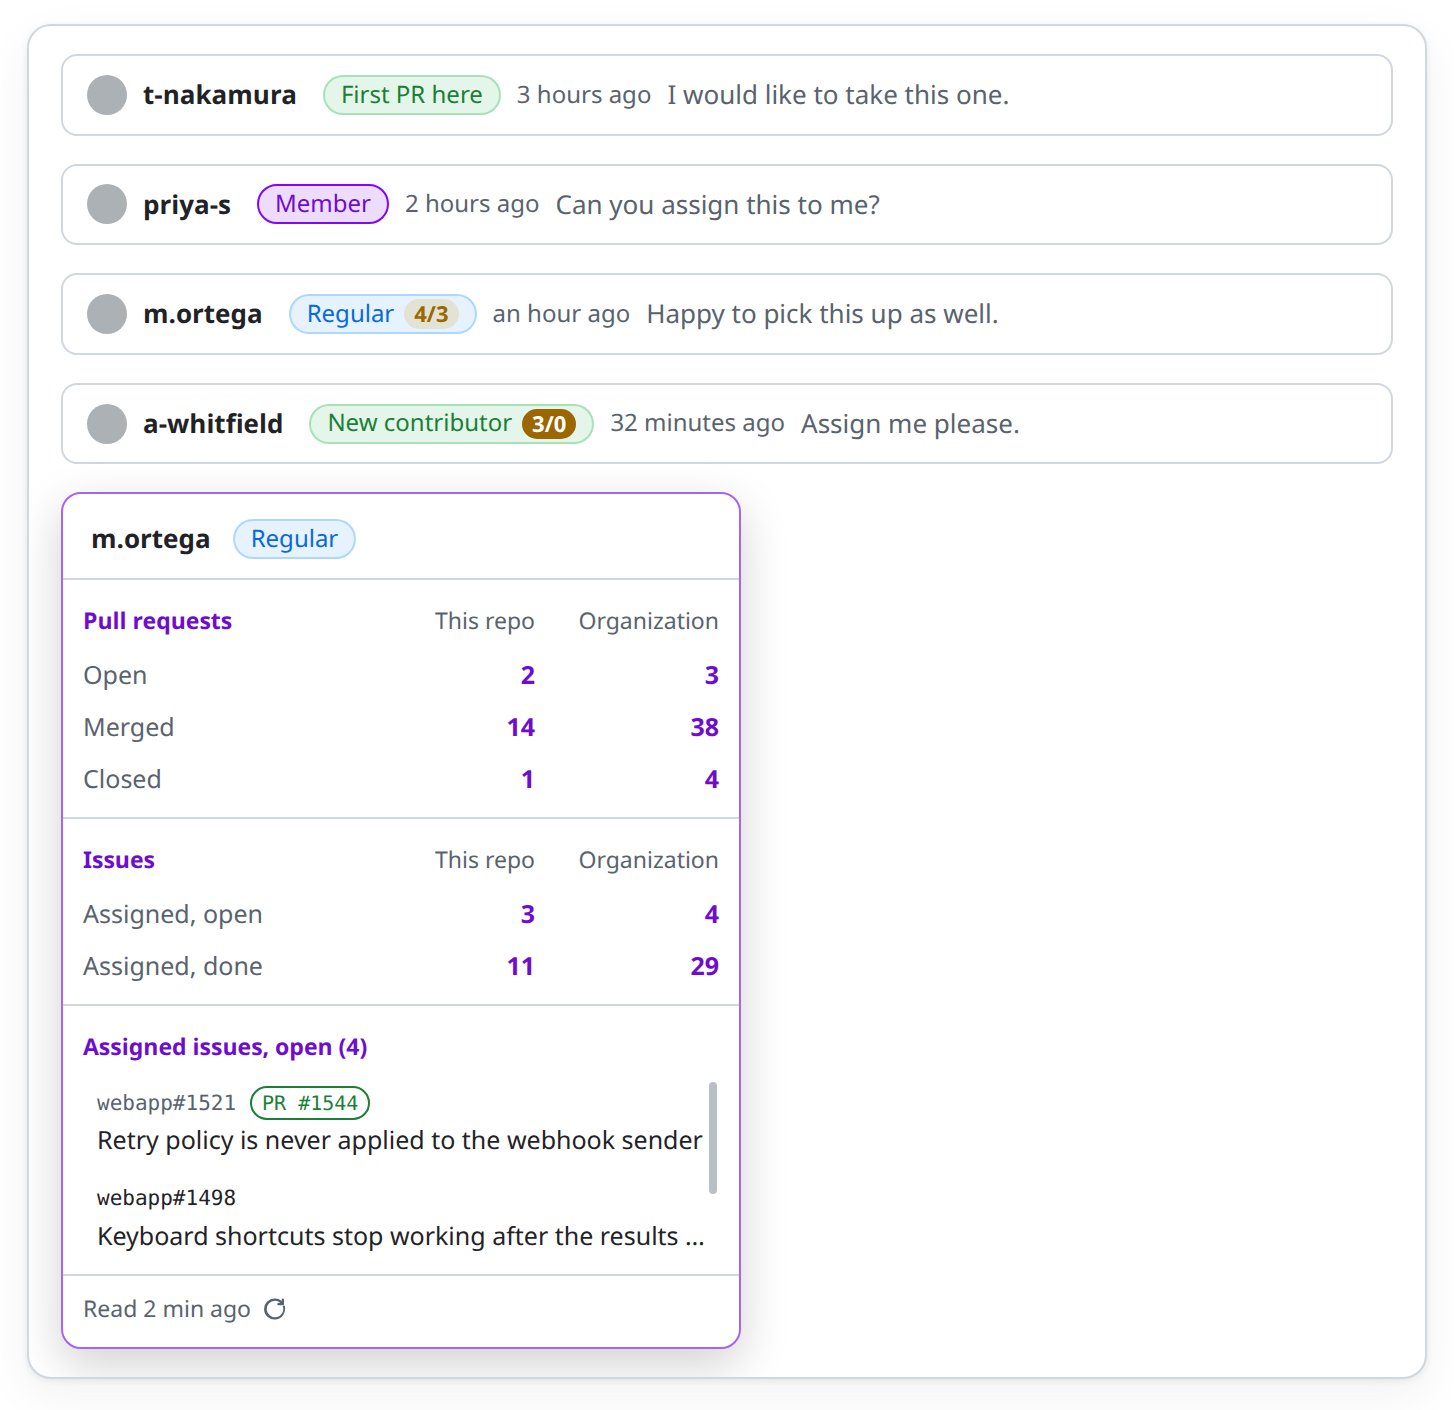
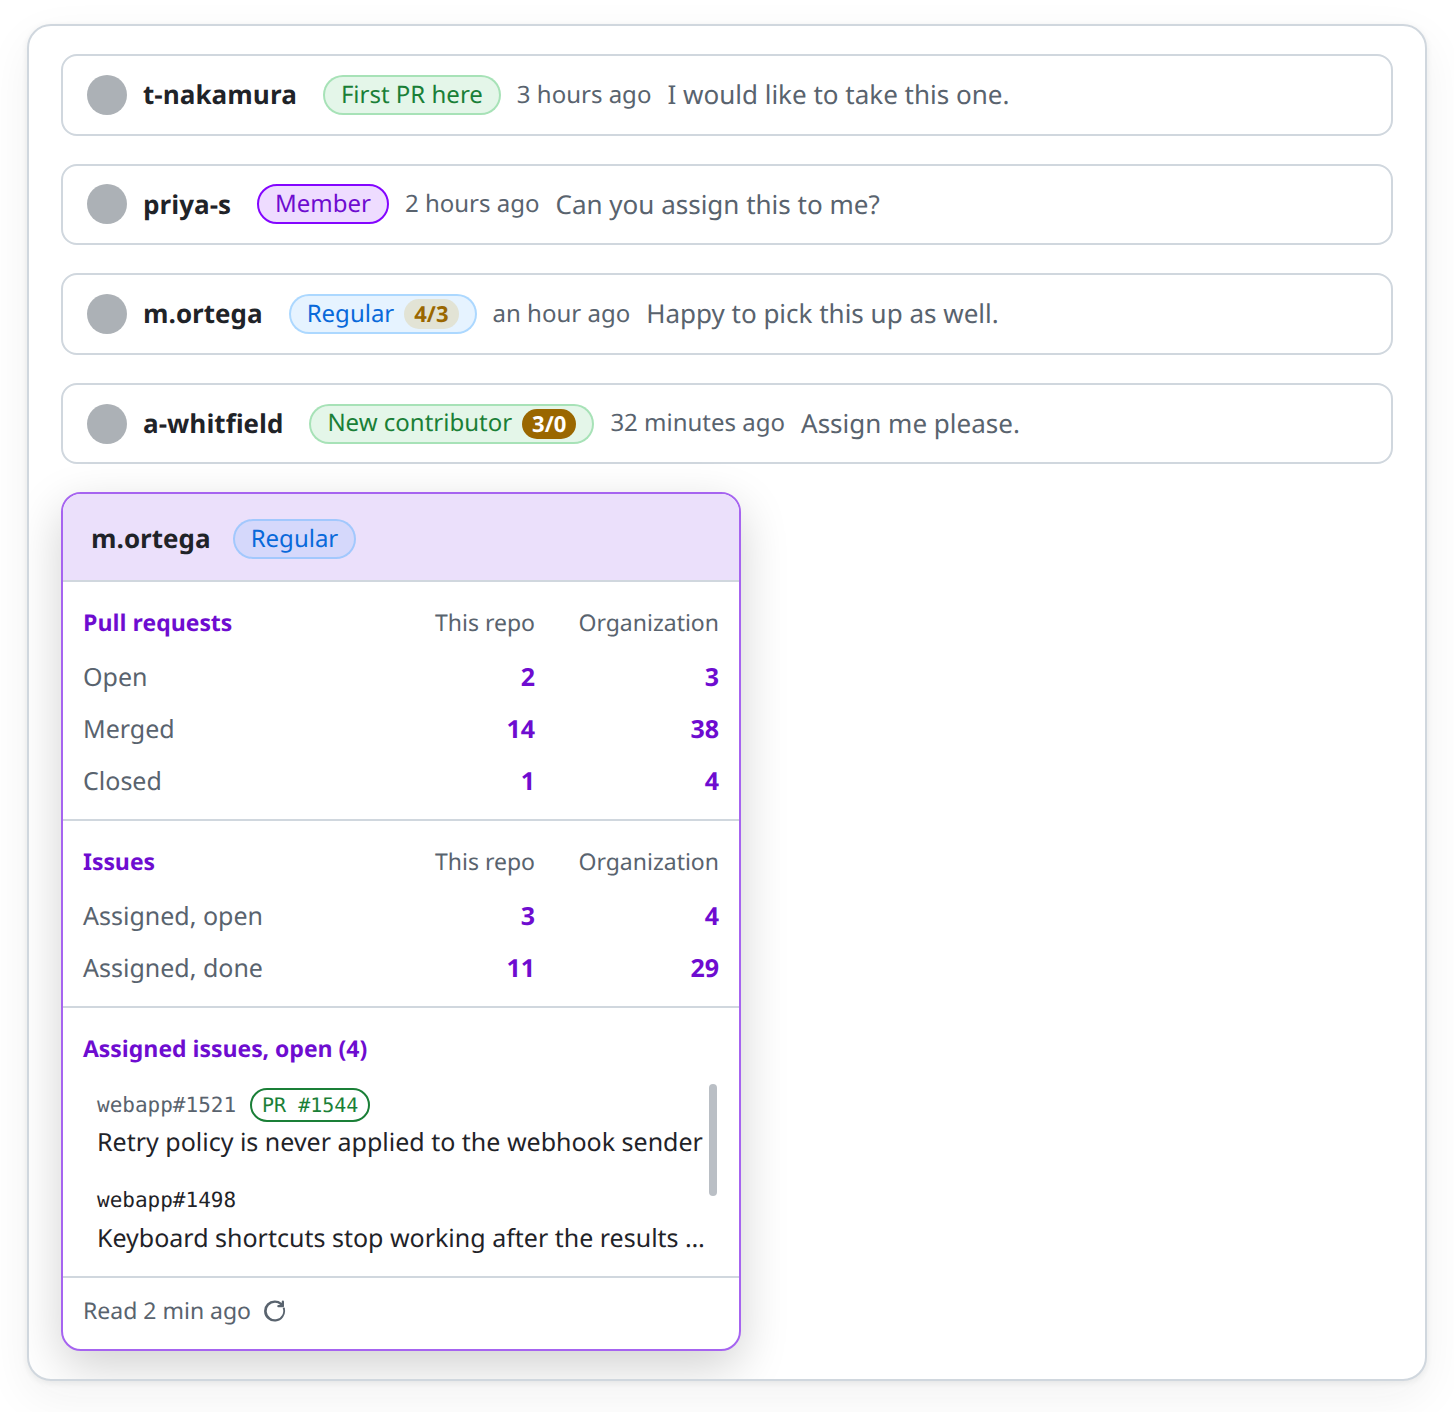
fix(contributors): tint the contributor card's header in the organization's colour too
The profile panel's header now carries the organization's colour, and the card's header, with the name and the status, was still plain.

- Tint the header of the contributor card in the organization's colour, edge to edge, with its rule below it
- Update the site mock-up and the example images

diff --git a/docs/index.html b/docs/index.html
@@ -328,6 +328,7 @@
     .palette .bs .ld, .palette .bs .ld-n { margin: 0; align-self: center; }
     .mock-load .card2 { --ink: color-mix(in srgb, #8405ff 78%, var(--fg)); width: 340px; padding: 10px; border: 1px solid var(--border); border-radius: 10px; background: var(--bg-card); box-shadow: 0 8px 24px rgba(0,0,0,.18); }
     .mock-load .card2 { border-color: color-mix(in srgb, #8405ff 55%, var(--border)); }
+    .mock-load .card2 .ch { margin: -10px -10px 0; padding: 12px 14px 10px; border-radius: 9px 9px 0 0; background: color-mix(in srgb, #8405ff 10%, var(--bg-muted)); }
     .mock-load .ch { display: flex; align-items: center; gap: 9px; padding: 2px 4px 9px; margin-bottom: 7px; border-bottom: 1px solid var(--border); }
     .mock-load .cn { font-size: 13px; font-weight: 600; }
     .mock-load .ctag { margin-left: 2px; }

diff --git a/content.css b/content.css
@@ -1189,6 +1189,13 @@ div:has(> .gsf-progress) {
 .gsf-load-card[data-brand] .gsf-load-head + .gsf-load-section {
   border-top-color: var(--gsf-rule);
 }
+/* The card's header takes the colour too, filling the card from edge to edge. */
+.gsf-load-card[data-brand] .gsf-load-head {
+  margin: -10px -10px 0;
+  padding: 12px 14px 10px;
+  border-radius: 9px 9px 0 0;
+  background: color-mix(in srgb, var(--gsf-brand) 10%, var(--bgColor-muted));
+}
 .gsf-load-card[data-brand] .gsf-load-sectionhead > span:first-child {
   color: var(--gsf-ink);
 }
